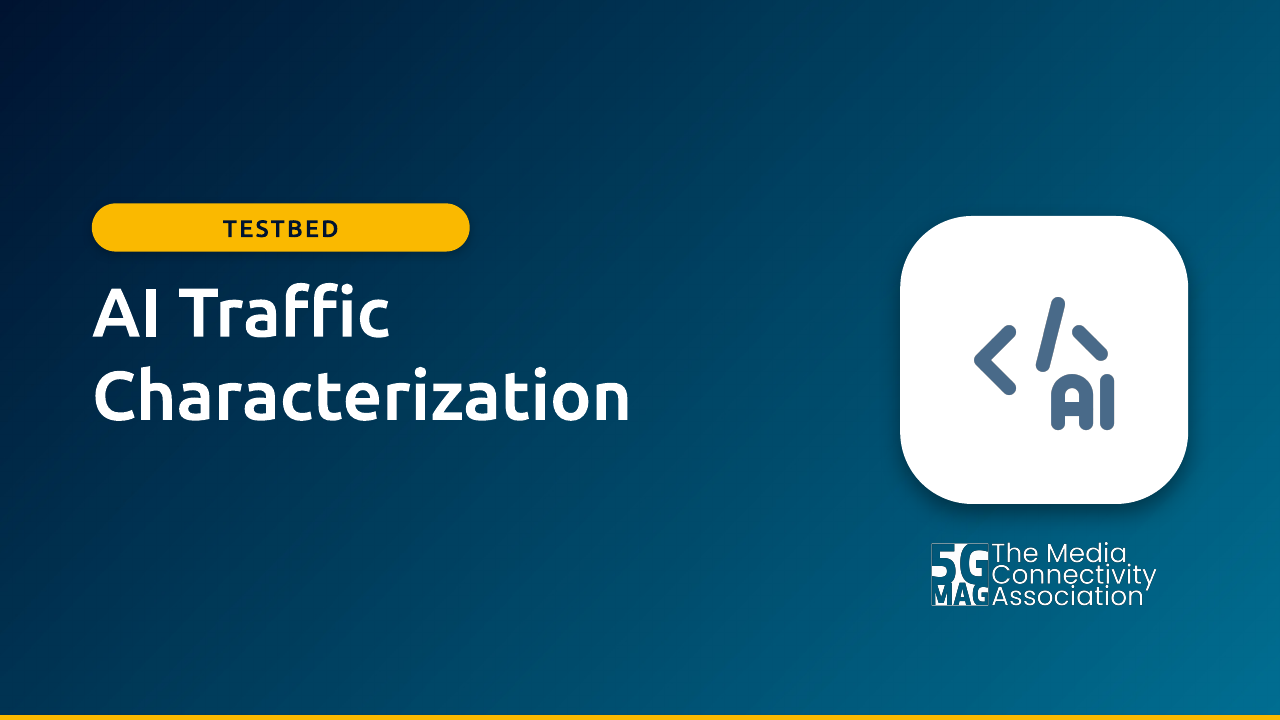
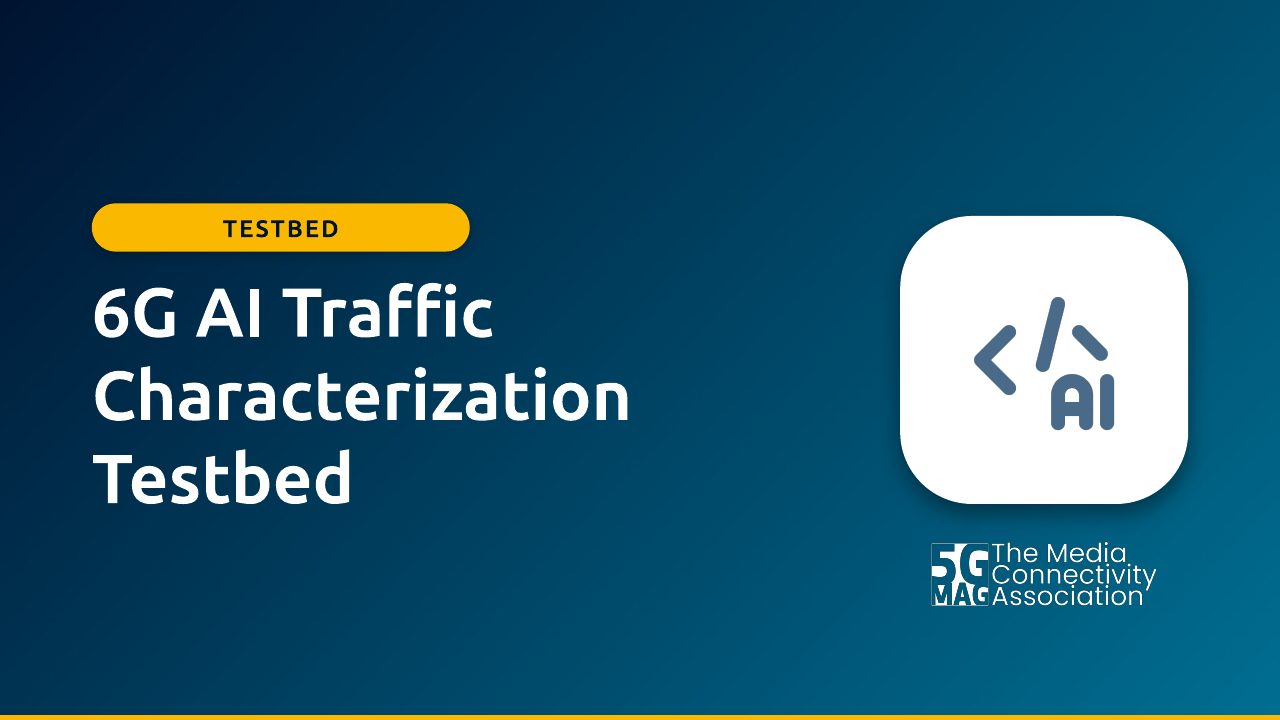
content: name the 6G testbed "6G AI Traffic Characterization Testbed"
Problem
  The testbed appeared under three names: "AI Traffic Characterization"
  (project pages, labels, cover images), "6G Testbed" (prose) and
  "6G Testbed and AI Traffic Characterization" (repository display name).
  [code-derived]

Basis
  No clause governs this; project name set by the site owner.

Raised by
  Review by the site owner.

Change
  taxonomy.json: displayName "6G AI Traffic Characterization Testbed" on the
  project and display_name on the 6G-Testbed repository entry; the stable
  `name` key is unchanged, so stats, releases and videos keep matching.
  Page titles, headings, kickers, sidebar label, nav label, alt texts and
  prose now use the name. The two project cover images are re-rendered
  from the updated Complete Deck slides 88 and 89 (same 1280x720; the icon
  and logo area is pixel-identical to the previous files).

Verification
  T0: build clean. A scan of the built HTML finds the old name only in past
  event titles, video titles, the magazine issue summary and the "AI Traffic
  Characterization framework" component name, all kept on purpose.

Not in this change
  Event posts and agenda (titles of past events), video titles, generated
  data files, the talk's slide-deck cover image, URL slugs (/testbeds/6g-testbed).

Changed region(s): [[0.0625, 0.3972, 0.4062, 0.4889], [0.0625, 0.6111, 0.2812, 0.7028]]

diff --git a/src/pages/tech/6g/index.js b/src/pages/tech/6g/index.js
@@ -102,7 +102,7 @@ export default function Towards6GMedia() {
                   multicast.
                 </p>
                 <p>
-                  In parallel, the 5G-MAG 6G Testbed provides an early experimental platform for
+                  In parallel, the 5G-MAG 6G AI Traffic Characterization Testbed provides an early experimental platform for
                   AI-driven media traffic classification and optimisation over 5G networks,
                   informing future 6G design. The testbed produces labelled traffic datasets and
                   classification results that 5G-MAG uses to shape its requirement inputs to
@@ -131,7 +131,7 @@ export default function Towards6GMedia() {
                 measurement instead of assumption. AI workloads behave differently from classic media
                 streaming — bursty request/response cycles, asymmetric uplink/downlink ratios,
                 sensitivity to time-to-first-token as well as sustained throughput — and those
-                differences matter for a 6G system meant to carry them. The 6G Testbed exists to
+                differences matter for a 6G system meant to carry them. The 6G AI Traffic Characterization Testbed exists to
                 characterise those patterns under controlled, reproducible network conditions, so
                 5G-MAG&apos;s media-requirements input to 3GPP and ITU-R is grounded in real measured
                 traffic behaviour rather than assumption alone.
@@ -294,7 +294,7 @@ export default function Towards6GMedia() {
               produce traffic patterns that differ from classic media streaming. These include
               bursty request/response cycles, asymmetric uplink/downlink ratios, long-lived
               sessions with variable think-time, and sensitivity to time-to-first-token as well as
-              to sustained throughput. The 5G-MAG 6G Testbed exists to characterise these patterns
+              to sustained throughput. The 5G-MAG 6G AI Traffic Characterization Testbed exists to characterise these patterns
               under controlled, reproducible network conditions.
             </p>
             <p>Concretely, the testbed:</p>
@@ -320,7 +320,7 @@ export default function Towards6GMedia() {
               These outputs are what 5G-MAG uses to ground its media and AI-traffic requirement
               inputs to 3GPP. Full detail, including the emulator YAML profile schema and the AI
               characterisation architecture, is on the{' '}
-              <Link to="/testbeds/6g-testbed/scope">6G Testbed developer scope page</Link>.
+              <Link to="/testbeds/6g-testbed/scope">6G AI Traffic Characterization Testbed developer scope page</Link>.
             </p>
 
             <h3>Inputs from 5G-MAG to 3GPP Workshops on 6G</h3>

diff --git a/techTopics.js b/techTopics.js
@@ -371,5 +371,5 @@ export { ALL_TOPICS };
 // Placed alongside Towards 6G since /tech/6g (its closest analysis
 // neighbour) lives there -- see BASKET_OVERRIDES above.
 export const RESEARCH_EXTRA_LINKS = [
-  { label: 'AI Traffic Characterization', href: '/testbeds/6g-testbed' },
+  { label: '6G AI Traffic Characterization Testbed', href: '/testbeds/6g-testbed' },
 ];

diff --git a/docs/home/testbeds/6g-testbed/tutorials/introduction-6g-testbed.md b/docs/home/testbeds/6g-testbed/tutorials/introduction-6g-testbed.md
@@ -1,8 +1,8 @@
 ---
-title: Introduction 6G Testbed
+title: Introduction to the 6G AI Traffic Characterization Testbed
 hide_title: true
 sidebar_position: 0
-description: Video and step-by-step walkthrough introducing the 6G Testbed's Network Emulator and AI Traffic Characterization framework, with links to full documentation.
+description: Video and step-by-step walkthrough introducing the 6G AI Traffic Characterization Testbed's Network Emulator and AI Traffic Characterization framework, with links to full documentation.
 ---
 
 <div class="topic-banner">
@@ -18,16 +18,16 @@ description: Video and step-by-step walkthrough introducing the 6G Testbed's Net
   <path d="M12 15v3" /></svg>
 </div>
 <div class="topic-banner__text">
-<span class="topic-banner__kicker">AI Traffic Characterization</span>
-<h1>Introduction to the 6G Testbed: Network Emulator and AI Traffic Characterization</h1>
+<span class="topic-banner__kicker">6G AI Traffic Characterization Testbed</span>
+<h1>Introduction to the 6G AI Traffic Characterization Testbed: Network Emulator and AI Traffic Characterization</h1>
 </div>
 </div>
 
 :::tip[In short]
-This tutorial introduces the 6G Testbed including the Network Emulator and the framework for AI Traffic Characterization
+This tutorial introduces the 6G AI Traffic Characterization Testbed including the Network Emulator and the framework for AI Traffic Characterization
 :::
 
-The 6G Testbed has two parts: a **Network Emulator** that reproduces realistic network conditions (delay, jitter, loss, and bandwidth limits) on a single machine, and an **AI Traffic Characterization** framework that runs AI workloads over those conditions and logs how they behave. The video below walks through both parts and shows how they are used together.
+The 6G AI Traffic Characterization Testbed has two parts: a **Network Emulator** that reproduces realistic network conditions (delay, jitter, loss, and bandwidth limits) on a single machine, and an **AI Traffic Characterization** framework that runs AI workloads over those conditions and logs how they behave. The video below walks through both parts and shows how they are used together.
 
 For the full component breakdown, the profile format, and the emulator API, see the [Scope](../scope) page. The source code and setup instructions are in the [5G-MAG/6G-Testbed](https://github.com/5G-MAG/6G-Testbed) repository. The introduction video is available on the [Developer Exchange](../tutorials#developer-exchange) section of this project's Tutorials page.
 
